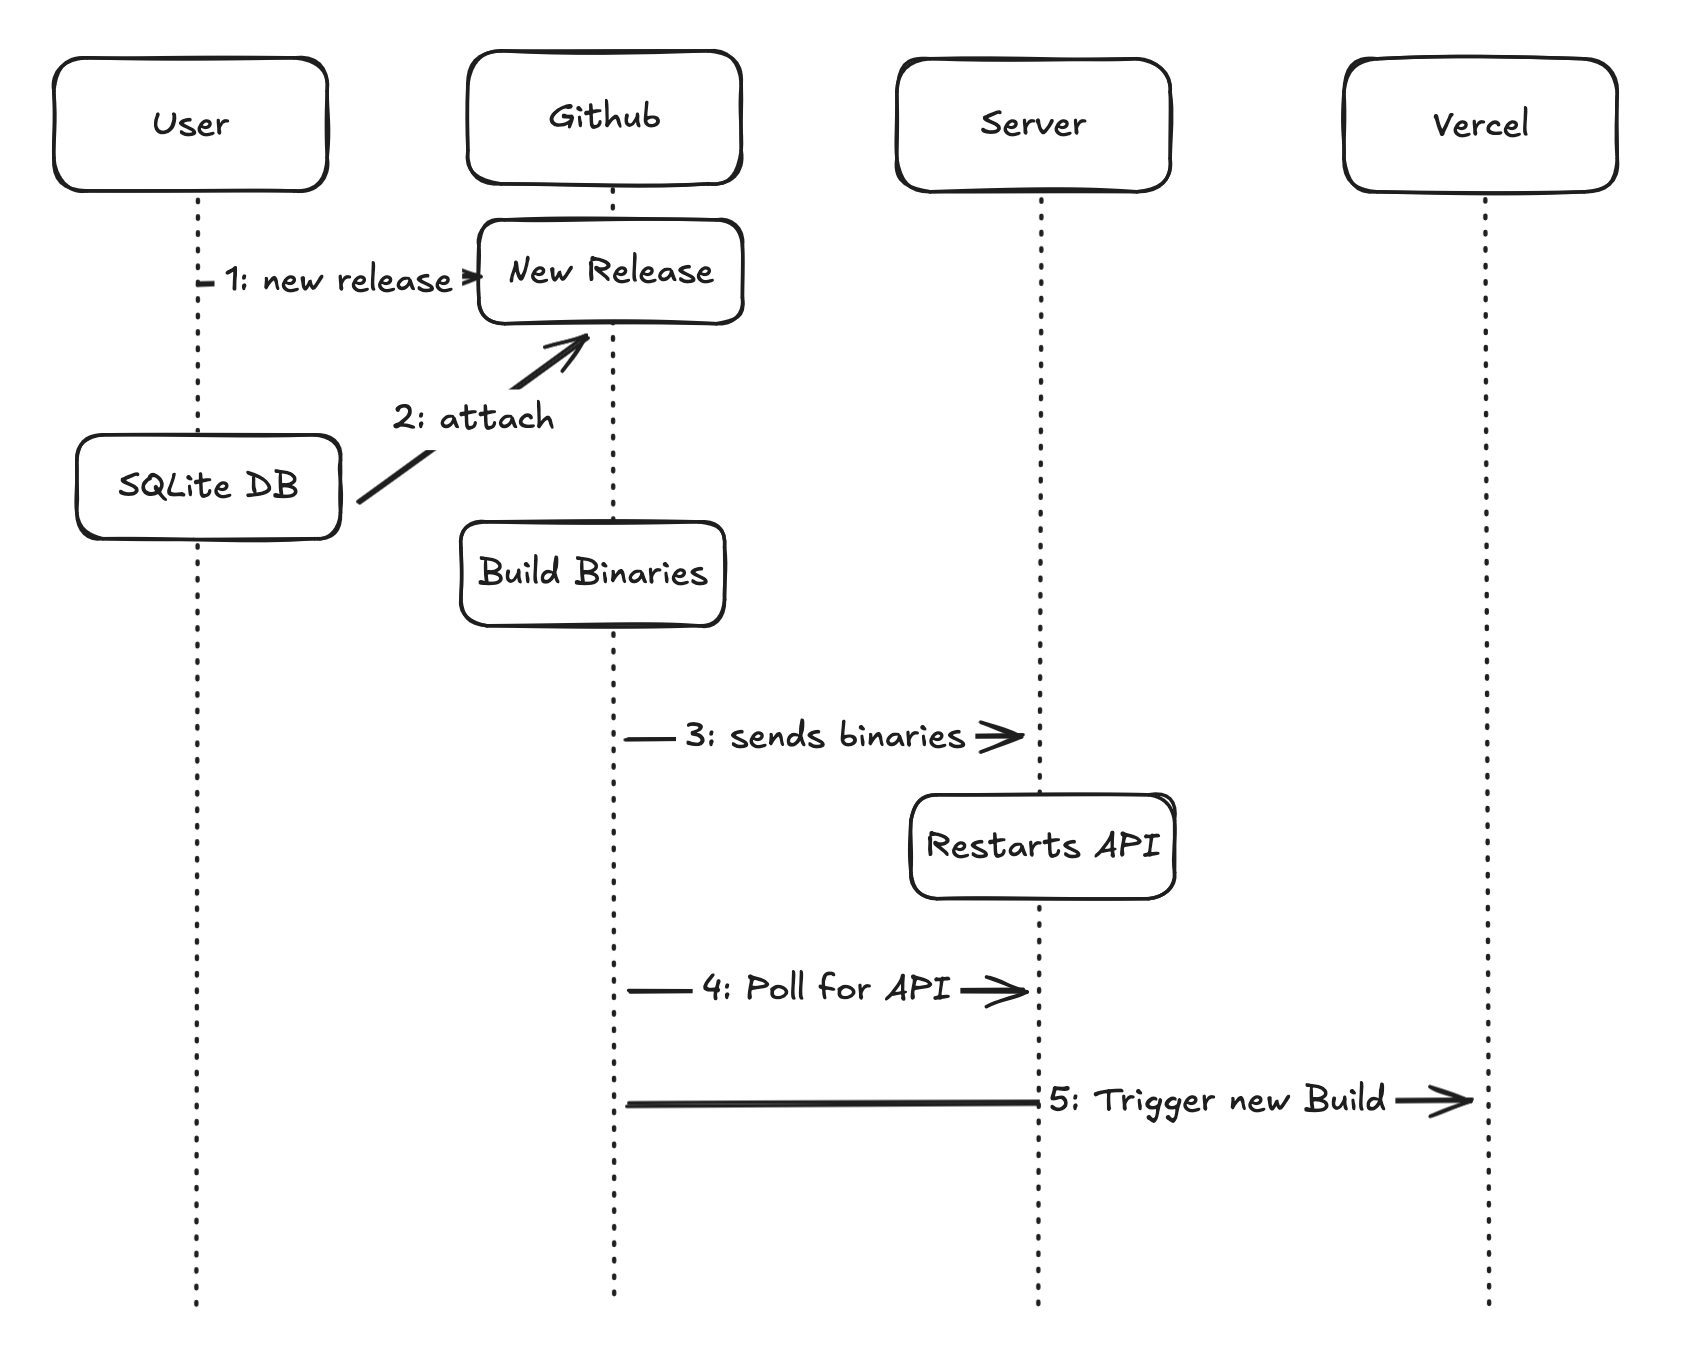
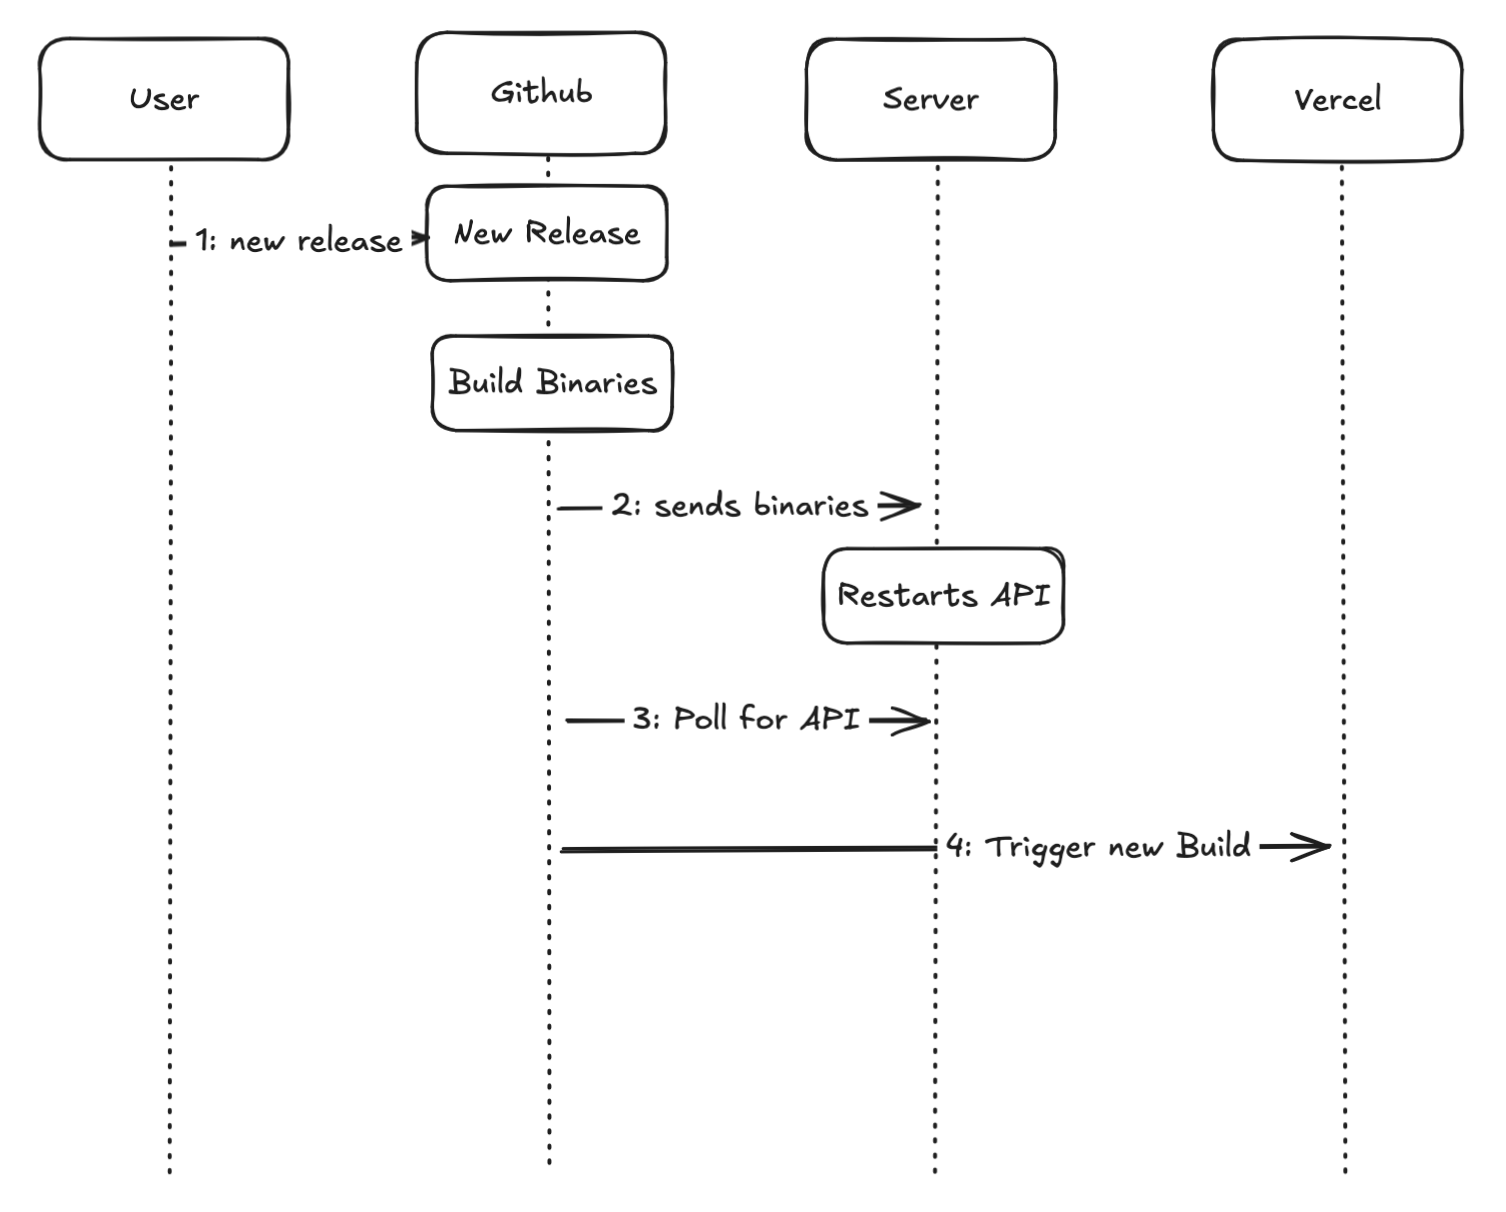
chore: update architecture docs (#19)

diff --git a/README.md b/README.md
@@ -6,21 +6,21 @@
 
 This website hosts my basic information as well as my photography portfolio.
 For this 1st iteration the website is pretty simple. It consists of a FE using
-Next.js and a BE using Rocket.rs, as for the photos, those are being manually
-uploaded to an S3 Bucket and recording its location in a SQLite DB.
+Next.js and a BE using Rocket.rs
 
-Could this be done differently? Most likely, but I don't really want to
-over-complicate it for now. Even if the deployment needs to upload the binary
-and SQLite DB to the server.
+Originally I intended to ship the DB in each deployment to avoid having to deal
+with users, sessions and uploads. But it would had require some over
+complication somewhere else, or to expose the RAW DB in each deployment as it
+would have been attached to each release. It also made it awkward, as each
+release is tightly coupled to a specific DB and mistakes can happen.
 
-An additional consideration is to avoid S3 fees from Amazon. It's virtually
-free to upload to a bucket, but every time data is transferred from the bucket
-to any client it costs money. One way to minimize this cost, is to fetch the
-images on boot and save them in memory. The bootstrap will be slow, but it will
-keep the cost low.
-
-In a future iteration I plan to have a simple backoffice to handle the S3 upload
-and photos management, but that's a maybe and definitely in the future.
+Instead, the DB will be created on the server as any other application would,
+and the CLI will deal with the upload to AWS directly. That way the REST API
+does not handle any of the upload complications. This still requires to have
+some user management, to protect the write routes of the API, but that can be
+done in a simplistic way by having some simple key approach, if the public key
+sent over the network matches the private key in the server, then the request
+is allowed.
 
 ## Deployment
 
@@ -33,9 +33,6 @@ rest, which is:
 2. Send binaries and DB to the sever
 3. Restarts API in server
 4. Trigger Vercel deployment
-
-An important note is that the release **requires** the local DB to be attached,
-this will in turn, be used by the API.
 
 # Development
 
